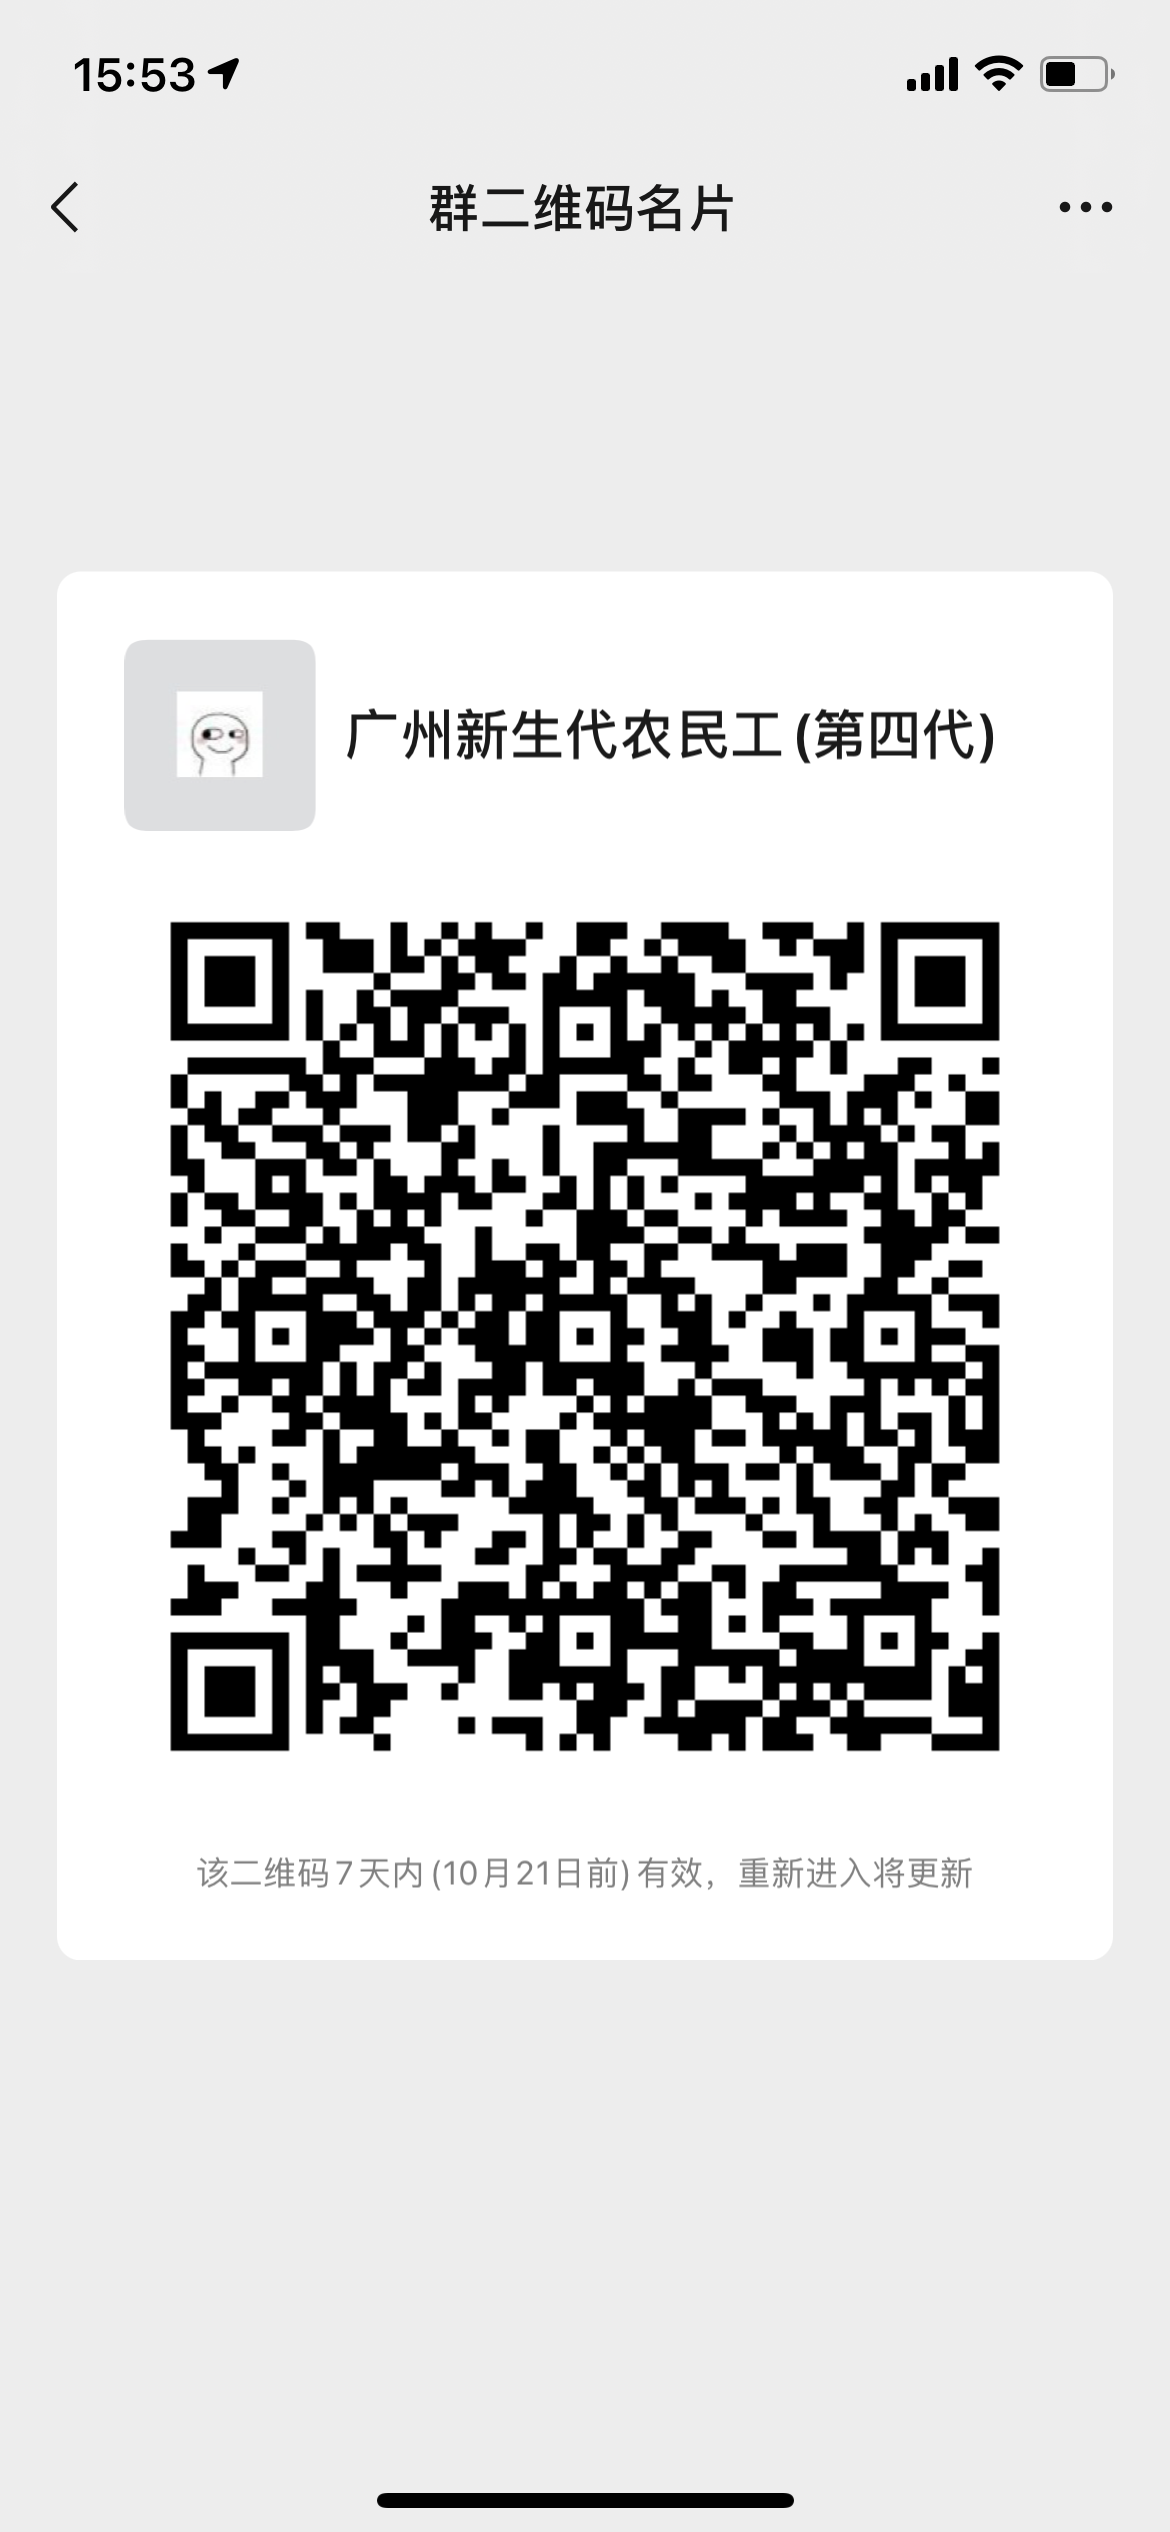
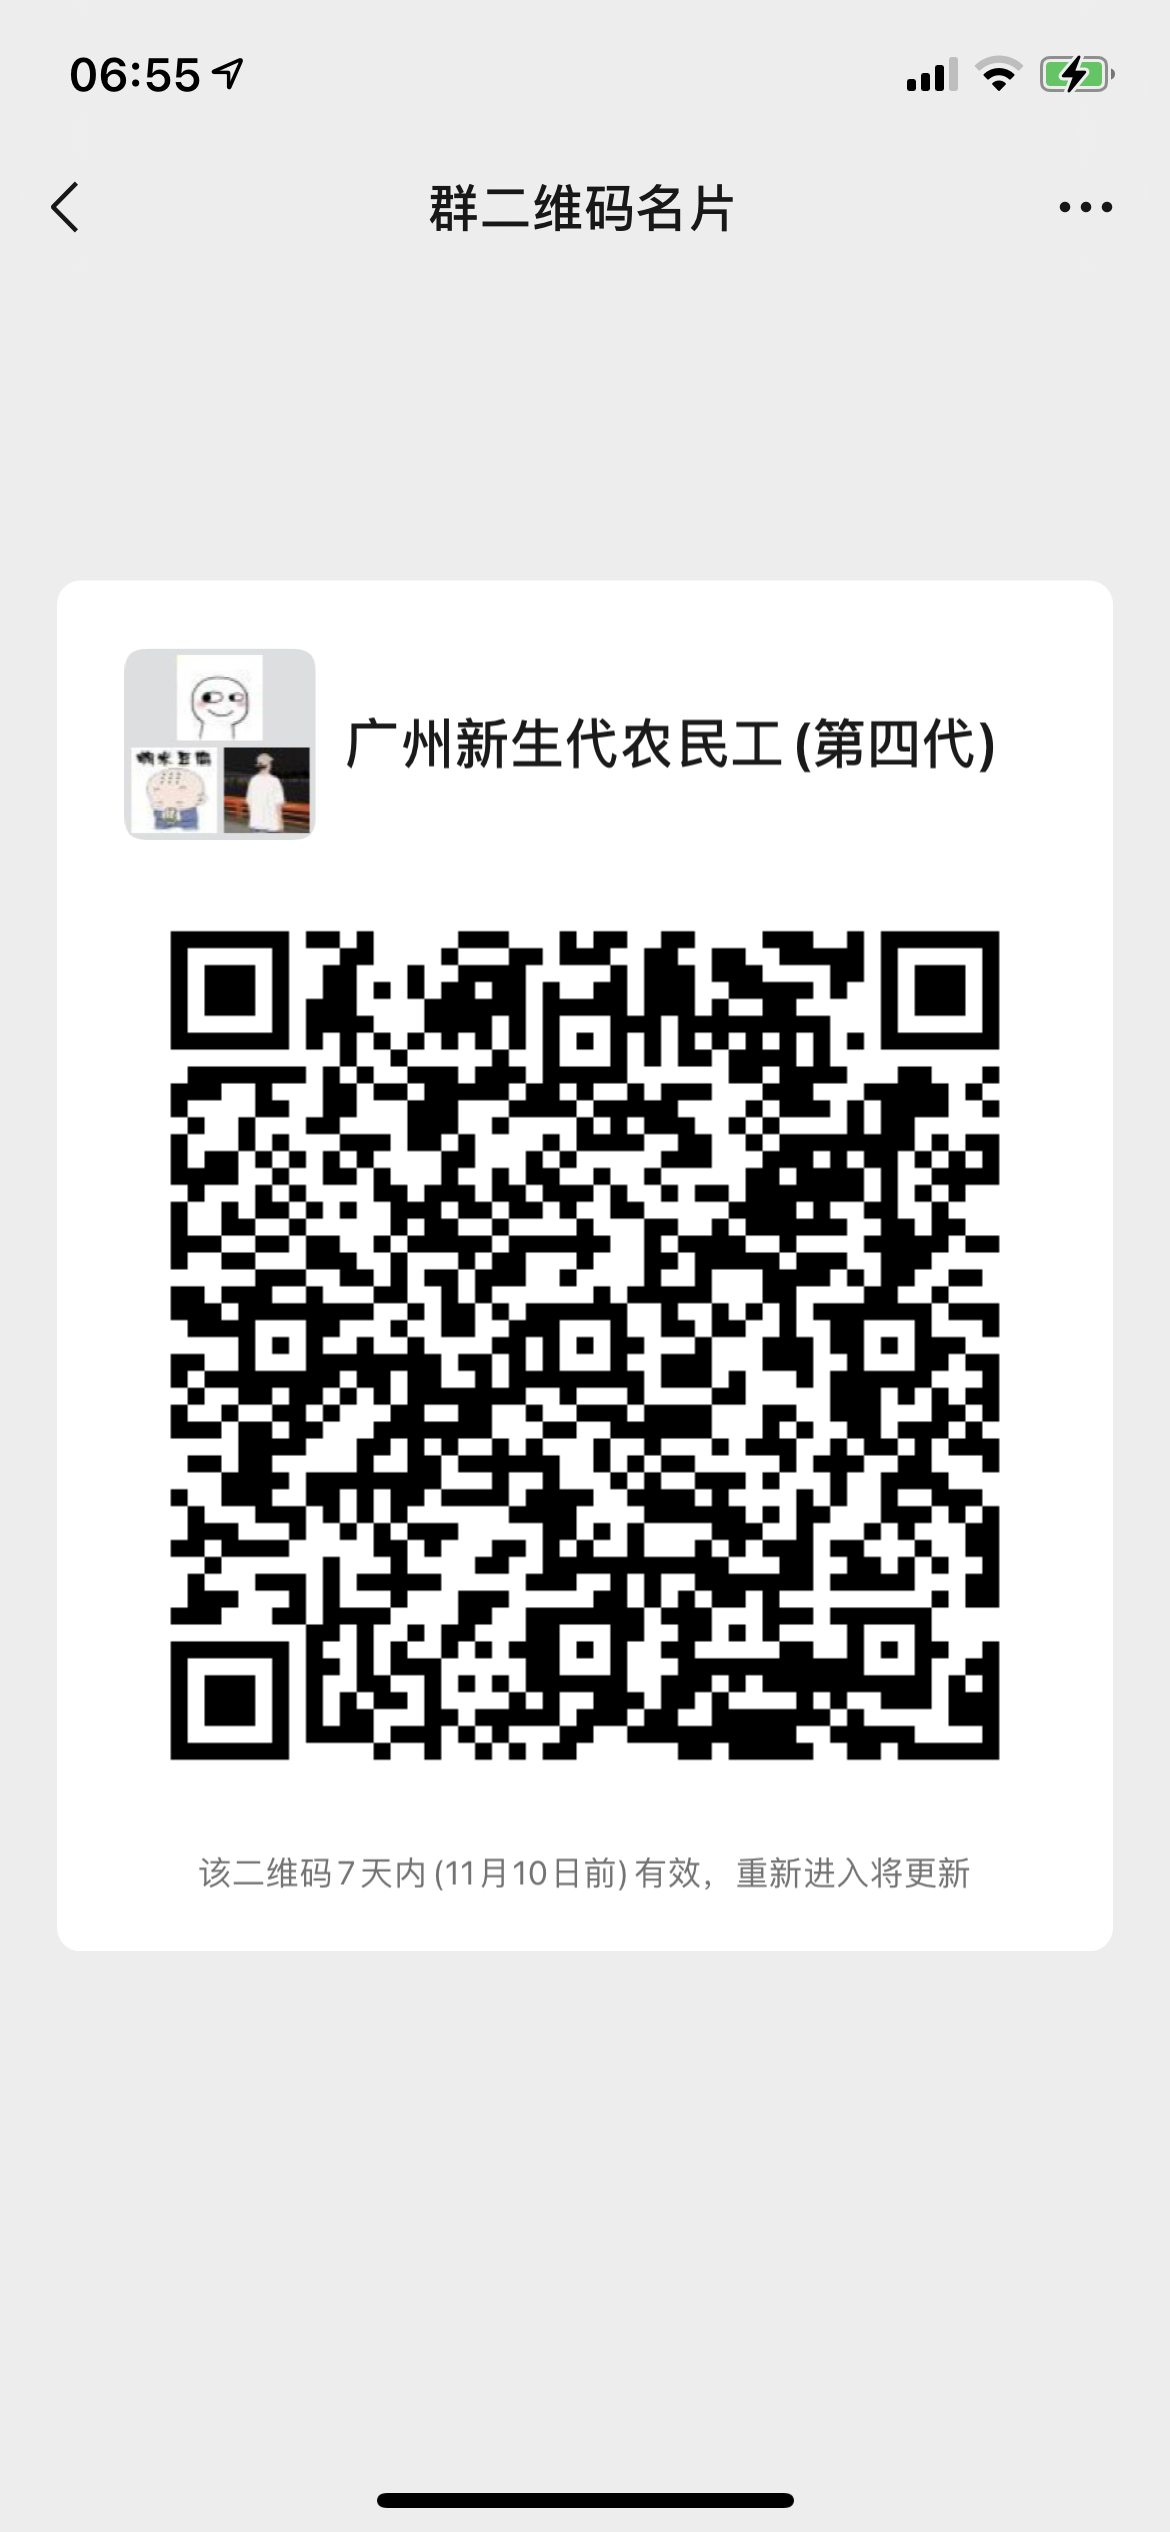
ADD

diff --git a/README.md b/README.md
@@ -5,7 +5,7 @@ TG:https://t.me/code_gz
 
 [二维码](./image/gzold.PNG)
 
-[备用二维码](./image/gznew.PNG)
+[备用二维码(四代)](./image/gznew.PNG)
 
 
 | 时间       | 内容                                                         | 其他 |
@@ -74,5 +74,3 @@ TG:https://t.me/code_gz
 | 2021-07-15 | 九价预约人人愁，两性话题引广泛讨论                           |      |
 | 2021-07-14 | 移民话题引发多人冲突，出海与否请理性讨论                     |      |
 | 2021-07-13 | 地域黑还是自嘲，多位网民对此作出指导意见                     |      |
-
- <img src="./gzold.PNG" alt="聊天群" style="zoom: 25%;" />
